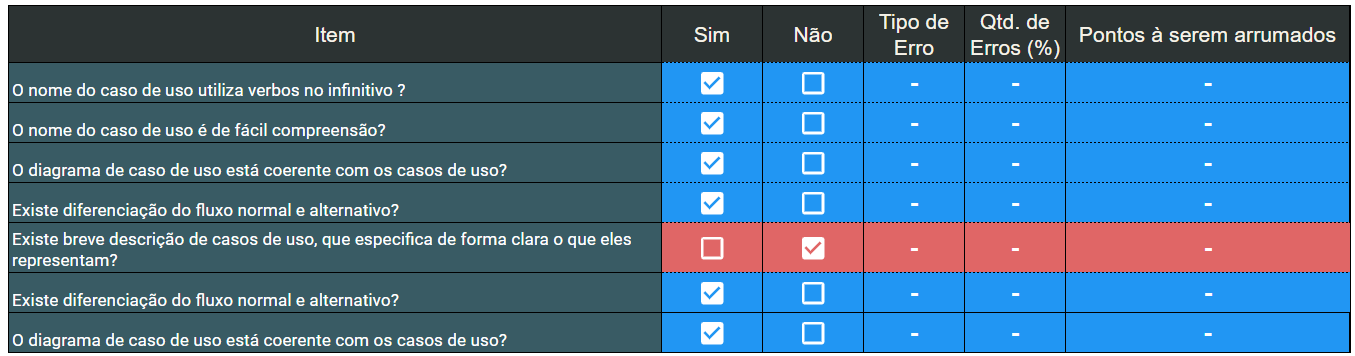
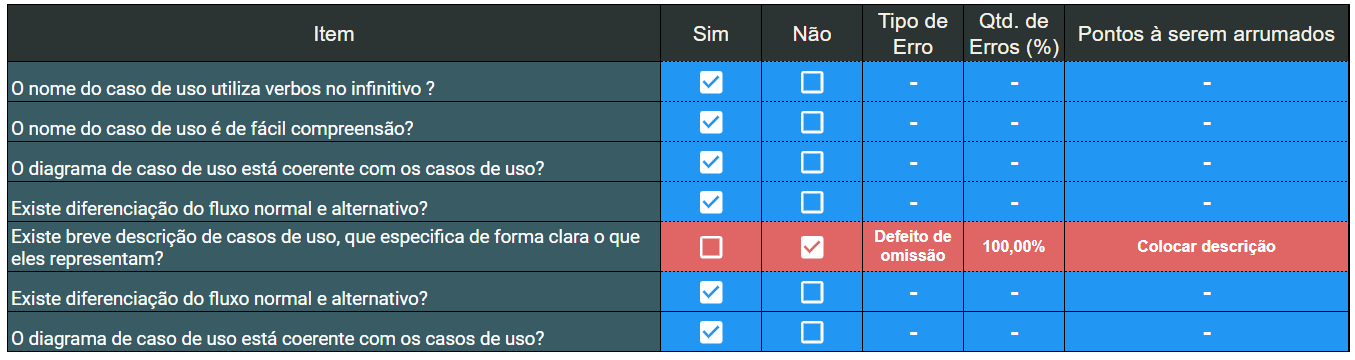
#67 caso de uso 01 padronizado

diff --git a/docs/analise/verificacao/ver_casos_de_uso.md b/docs/analise/verificacao/ver_casos_de_uso.md
@@ -23,7 +23,7 @@ Esse documento visa a verificação de possíveis erros e incoerências no docum
 
 <figcaption>Figura 1: Possíveis Erros. </figcaption>
 
-<p align = "center"><img src="possiveis_erros_casos_de_uso.png"></p> <br>
+<p align = "center"><img src="https://raw.githubusercontent.com/Requisitos-de-Software/2021.2-PontoFacil/correcao-doc-verificacao/docs/assets/imagens/possiveis_erros_casos_de_uso.PNG"></p> <br>
 
 
 
@@ -33,23 +33,23 @@ Esse documento visa a verificação de possíveis erros e incoerências no docum
 
 <br>
 
-### 2.2 Checklist
+### 2.2 Checklist Caso de uso 01 -  Registrar o ponto
 
 <center>
 
 <figcaption>Figura 2: Checklist Caso de uso 01 -  Registrar o ponto</figcaption>
-<p align = "center"><img src=""></p><br>
+<p align = "center"><img src="https://raw.githubusercontent.com/Requisitos-de-Software/2021.2-PontoFacil/correcao-doc-verificacao/docs/assets/imagens/ver_caso_de_uso_01_checklist.PNG"></p><br>
 <figcaption>Fonte: Elaborado pelos autores.</figcaption>
 
 </center>
 
 <br>
 
-### 2.3  Gráfico
+### 2.3  Gráfico de verificação Caso de uso 01 -  Registrar o ponto
 
 <center>
-<figcaption>Figura 3: Gráfico de verificação NFR Framework.</figcaption>
-<p align = "center"><img src="https://raw.githubusercontent.com/Requisitos-de-Software/2021.2-PontoFacil/master/docs/assets/imagens/ver_nfr_framework_grafico.PNG"></p><br>
+<figcaption>Figura 3: Gráfico de verificação Caso de uso 01 -  Registrar o ponto</figcaption>
+<p align = "center"><img src="https://raw.githubusercontent.com/Requisitos-de-Software/2021.2-PontoFacil/correcao-doc-verificacao/docs/assets/imagens/ver_caso_de_uso_01.PNG"></p><br>
 
 <figcaption>Fonte: Elaborado pelos autores.</figcaption>
 
